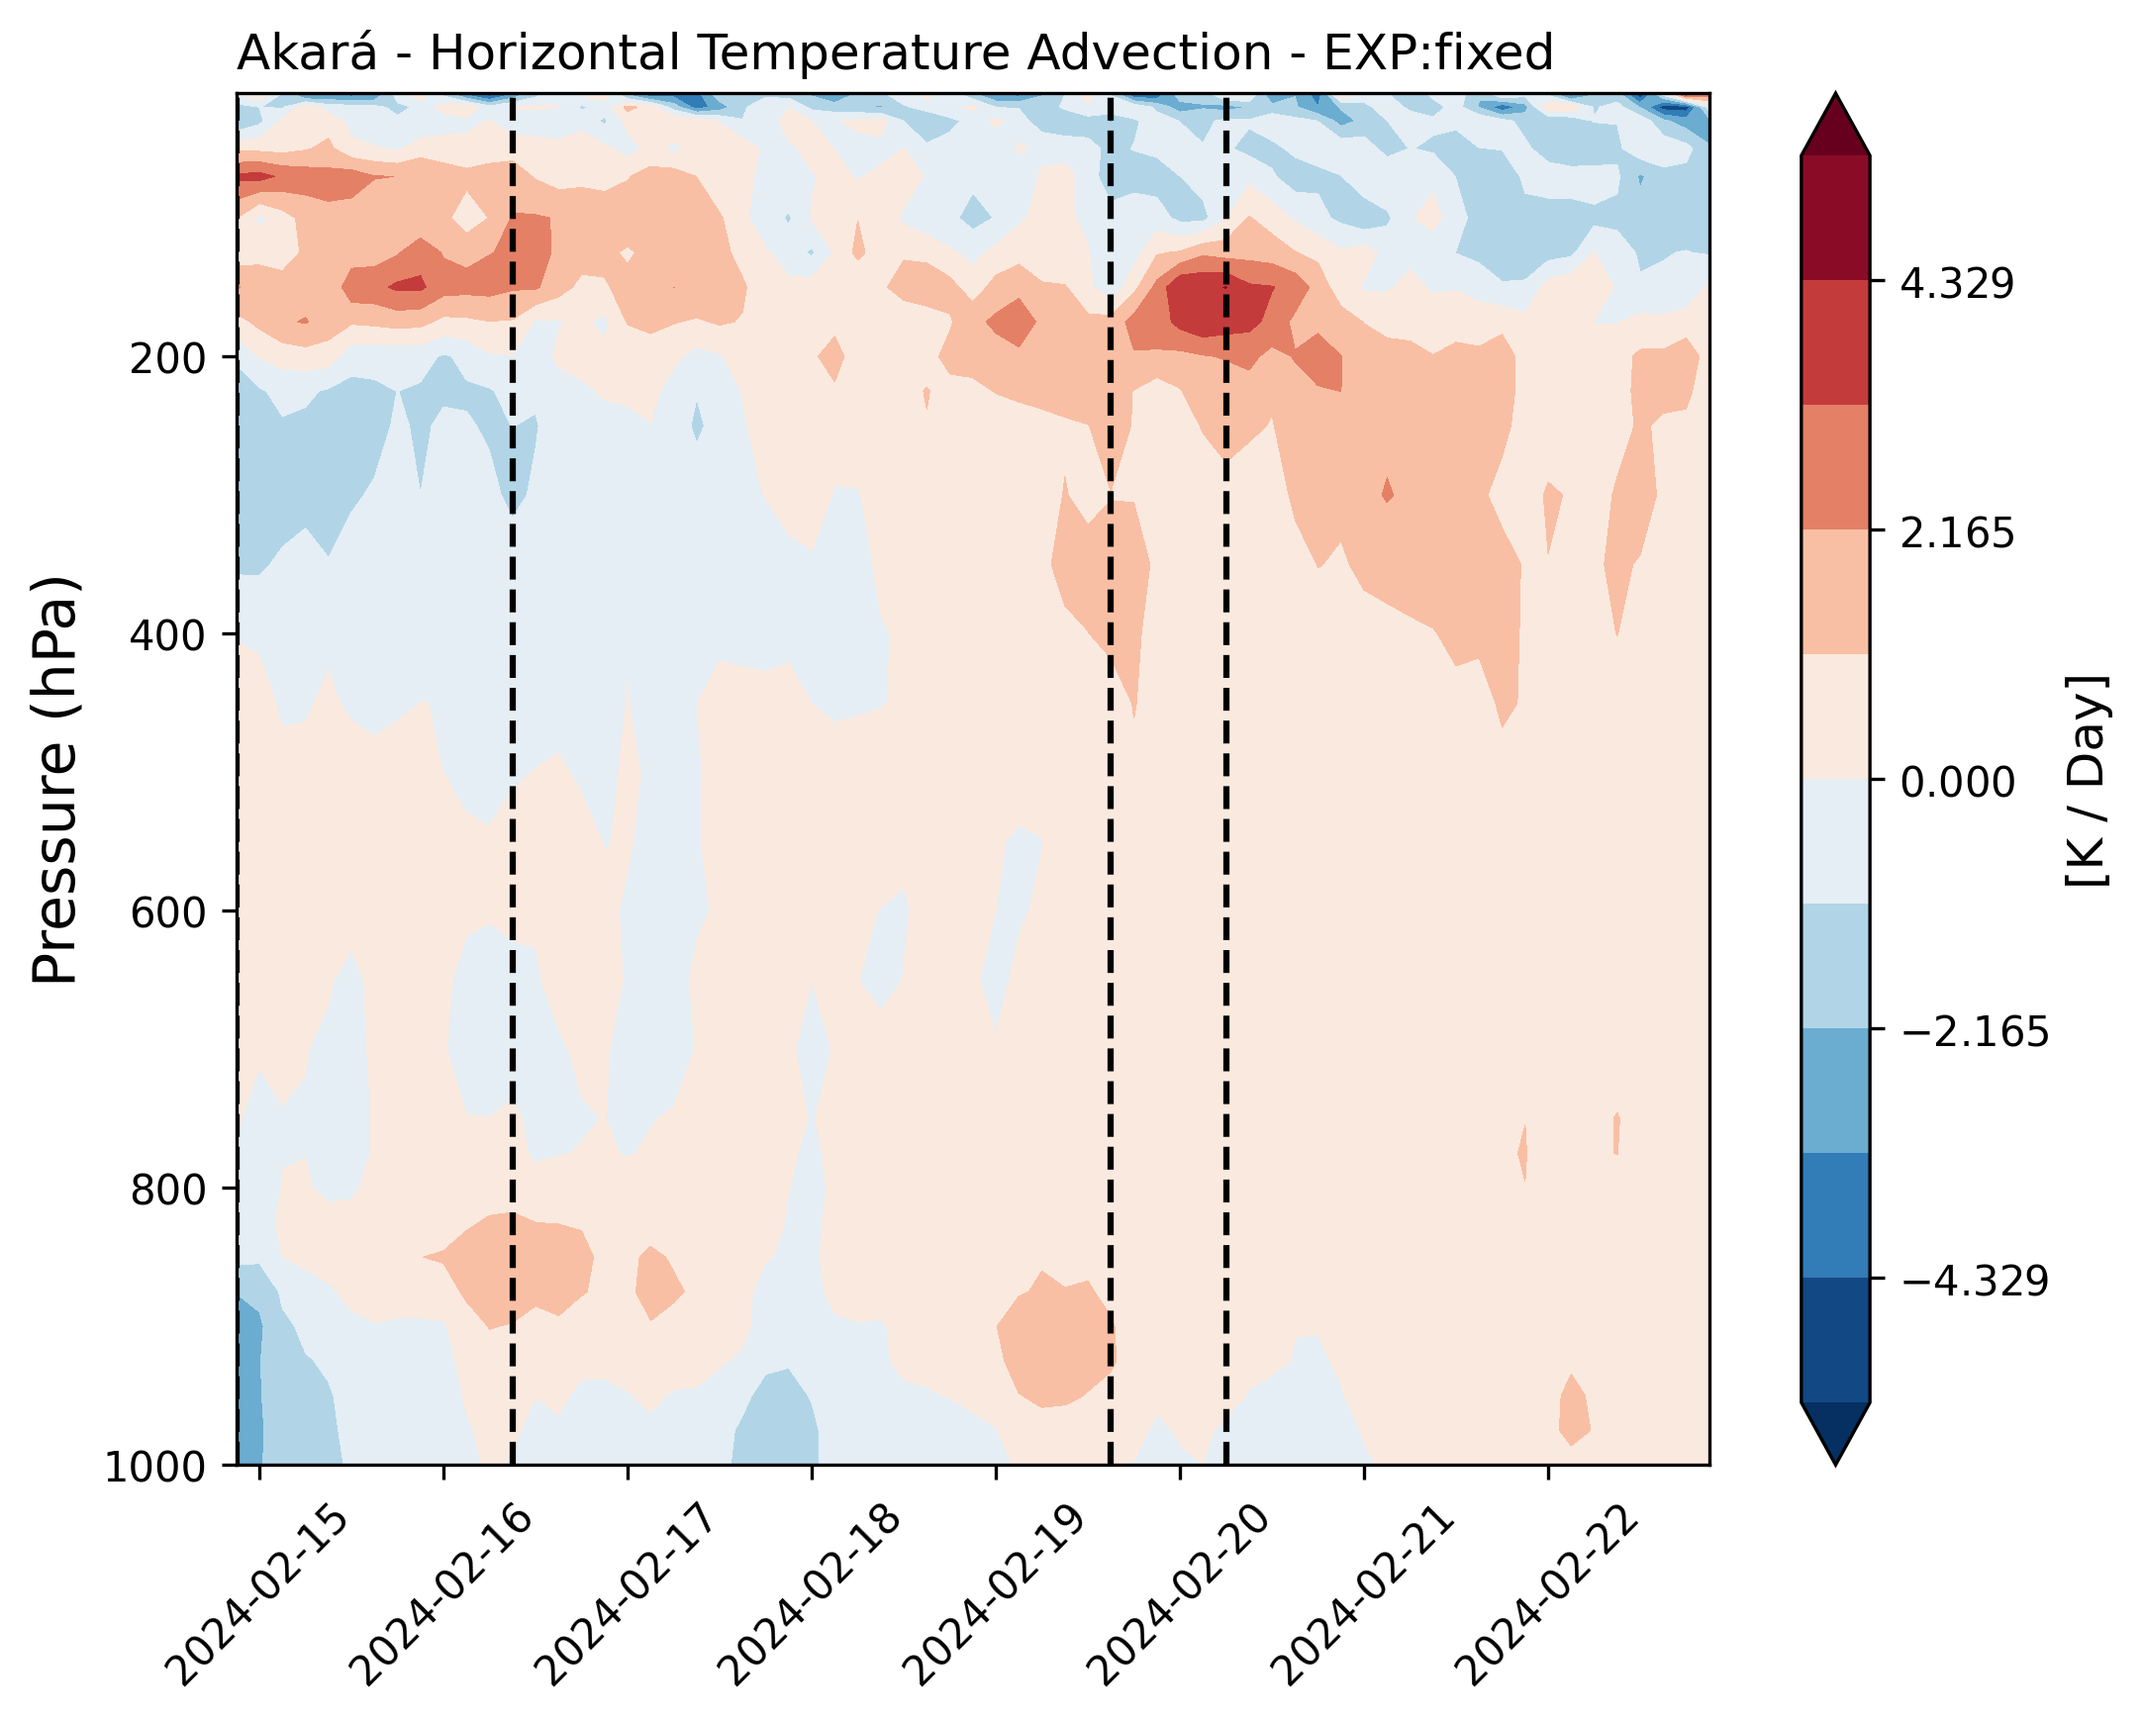
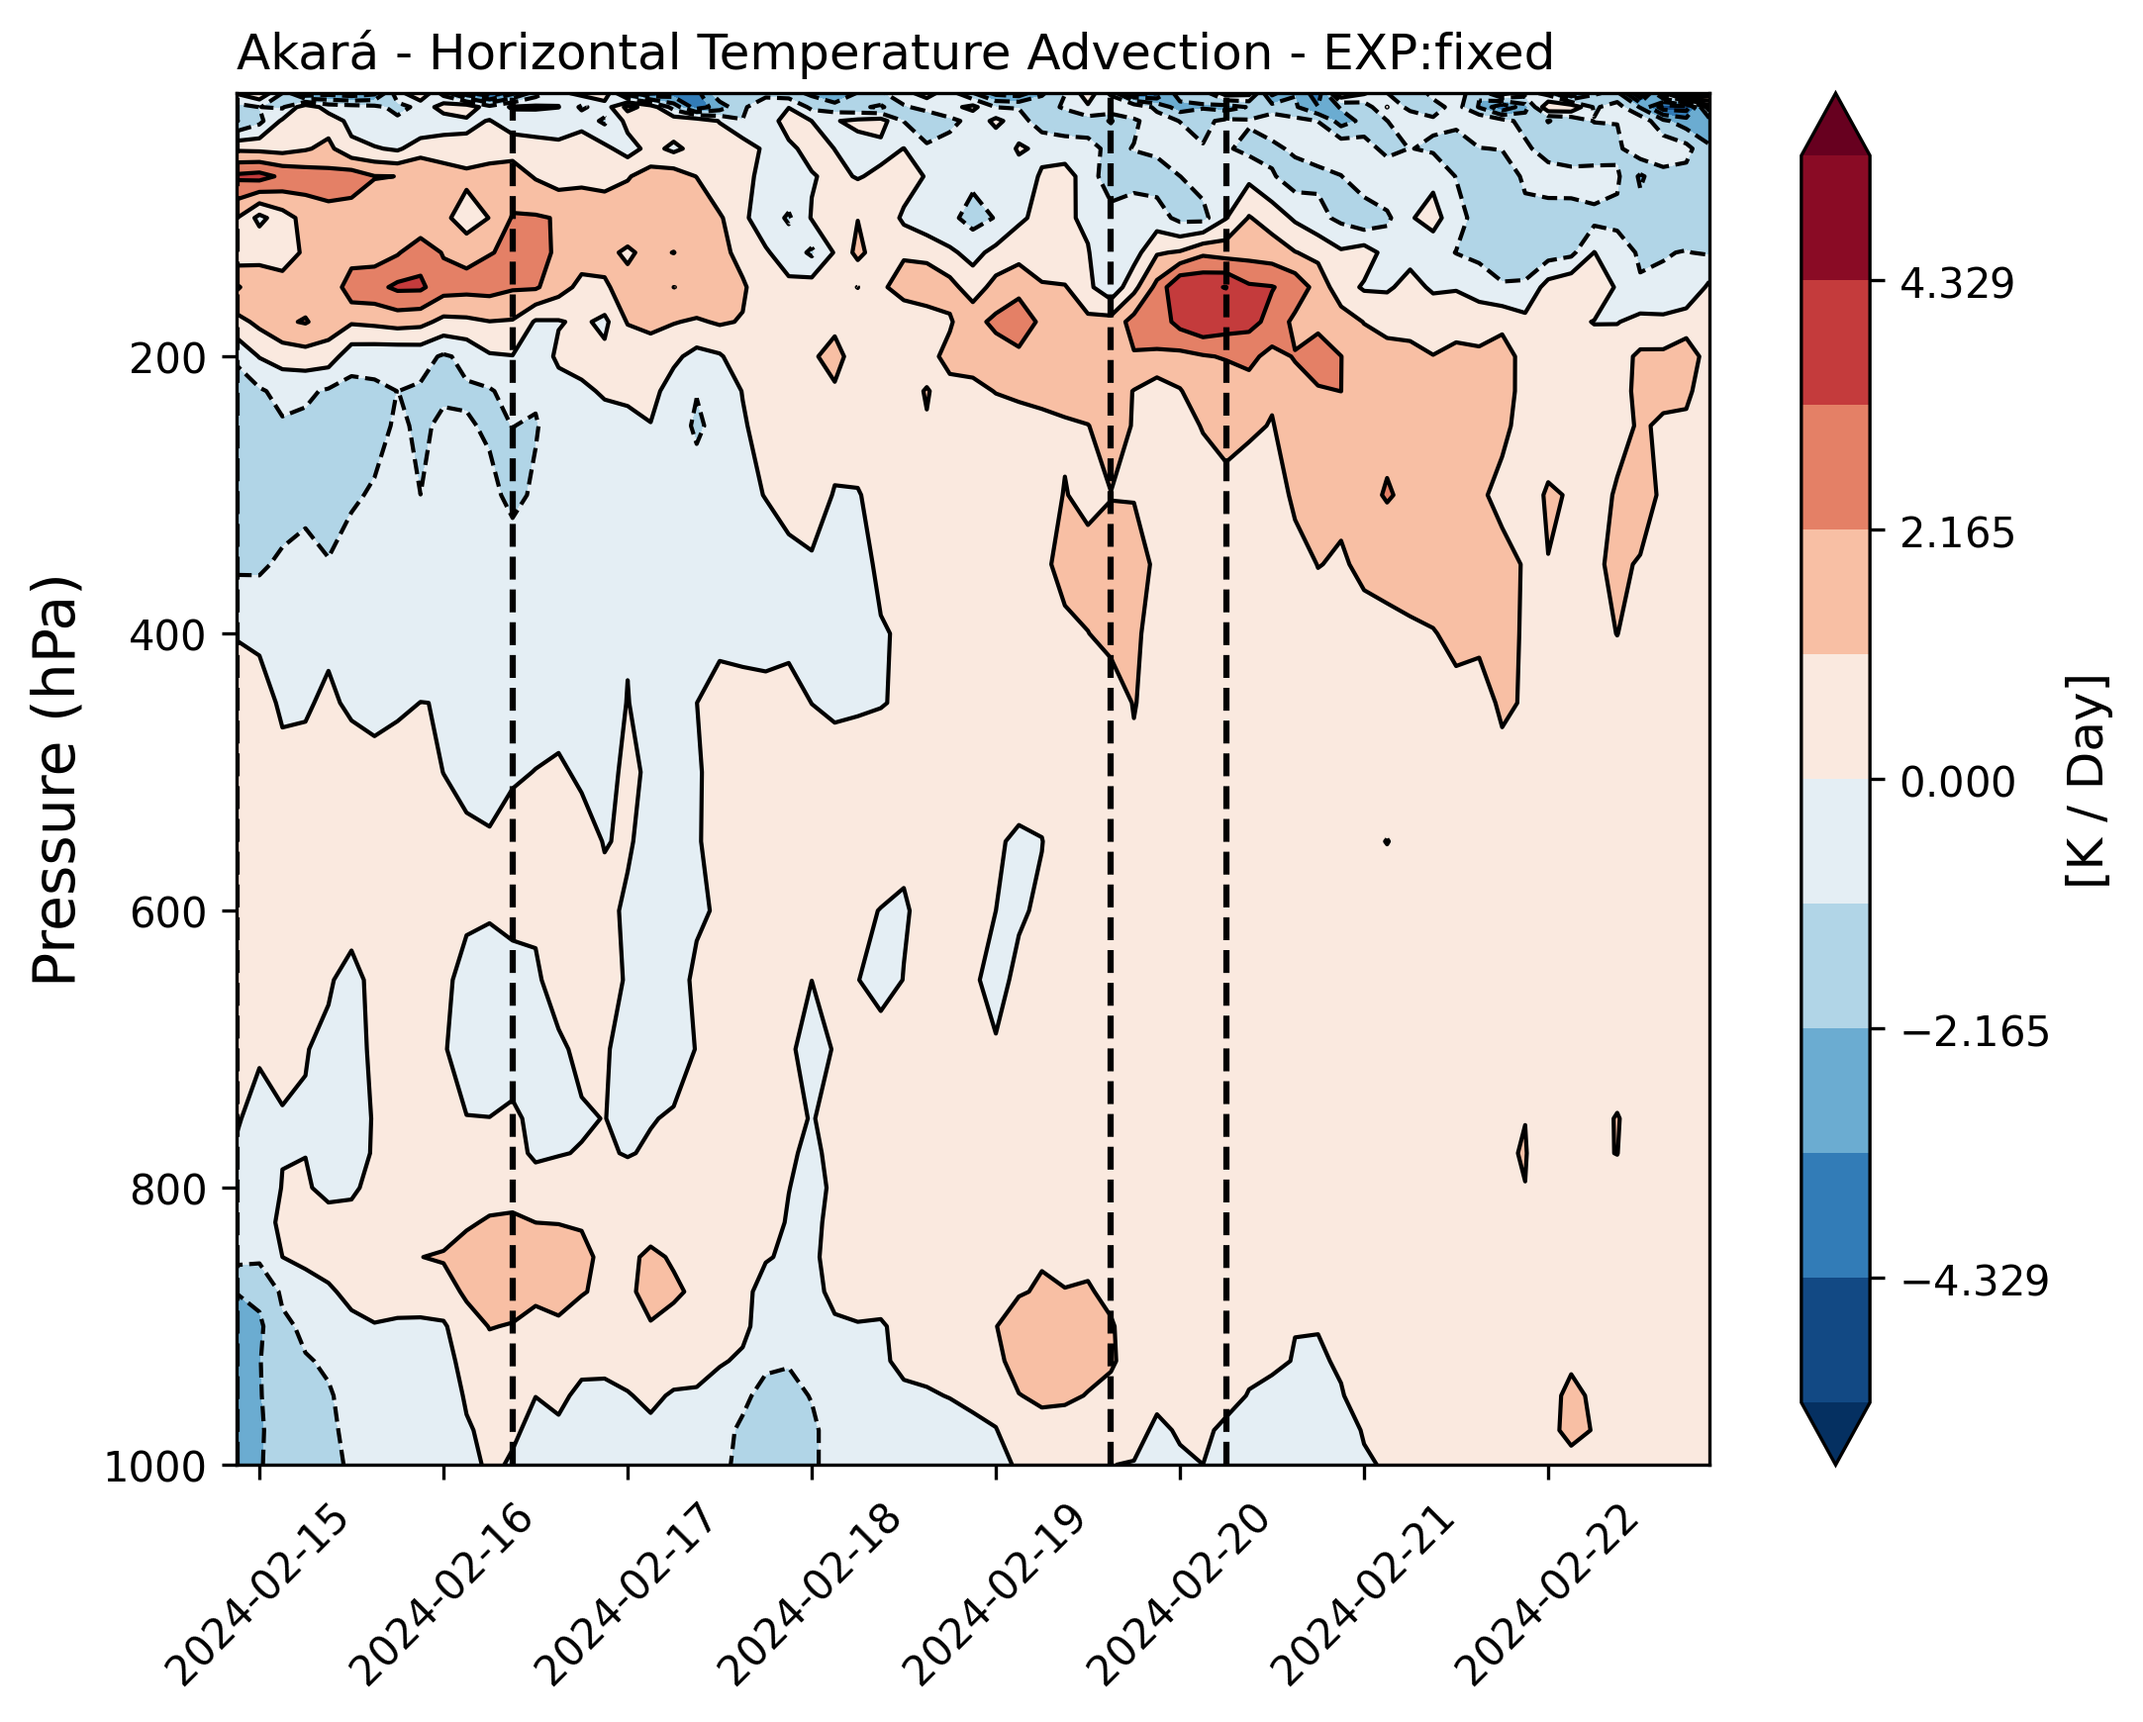
balanço de temperatura

diff --git a/akara1_track/Scripts/T_balanc.py b/akara1_track/Scripts/T_balanc.py
@@ -3,8 +3,8 @@ import matplotlib.ticker as ticker
 import pandas as pd
 import numpy as np
 
-DIRDADO = '/home/victor/USP/sinotica3/ATMOS-BUD_Results/akara1_fixed/'
-DIRFIGS = '/home/victor/USP/sinotica3/ATMOS-BUD_Results/akara1_fixed/Figures/T_balanc_fixed/'
+DIRDADO = '/home/victor/USP/sinotica3/ATMOS-BUD_Results/akara1_track/'
+DIRFIGS = '/home/victor/USP/sinotica3/ATMOS-BUD_Results/akara1_track/Figures/T_balanc_track/'
 
 # Lista de arquivos de dados
 dTdt = DIRDADO + 'dTdt.csv'
@@ -63,8 +63,8 @@ for idx, (date_interval, nome) in enumerate(zip(date_intervals, nomes)):
     ax.invert_yaxis()
     ax.set_ylim(1000, 10)  # Definir limites do eixo y
     ax.grid(axis='y', linestyle='--', color='gray', alpha=0.7, linewidth=0.5)  # Adicionar linhas de grade horizontais
-    ax.set_xlim(-8, 22)  # Definir limites do eixo x
-    ax.set_title(f'Akará Heat Budget - {nome} - EXP:fixed', fontsize=12, loc='left')  # Definir título
+    ax.set_xlim(-12, 30)  # Definir limites do eixo x
+    ax.set_title(f'Akará Heat Budget - {nome} - EXP:track', fontsize=12, loc='left')  # Definir título
     ax.set_xlabel('[K / Day]', fontsize=10)  # Definir rótulo do eixo x
     ax.set_ylabel('Pressure (hPa)', fontsize=10)  # Definir rótulo do eixo y
     ax.set_facecolor('white')  # Cor de fundo do eixo

diff --git a/akara1_fixed/Scripts/T_hov.py b/akara1_fixed/Scripts/T_hov.py
@@ -60,6 +60,9 @@ im = ax.contourf(df.columns, df.index, df.values * 86400, cmap='RdBu_r', extend=
 # Adicionando a barra de cores
 cbar = fig.colorbar(im)
 
+contours = ax.contour(df.columns, df.index, df.values * 86400, colors='black', 
+                       levels=np.linspace(vmin, vmax, 11), linewidths=1)
+
 # Inverter o eixo y
 ax.invert_yaxis()
 
